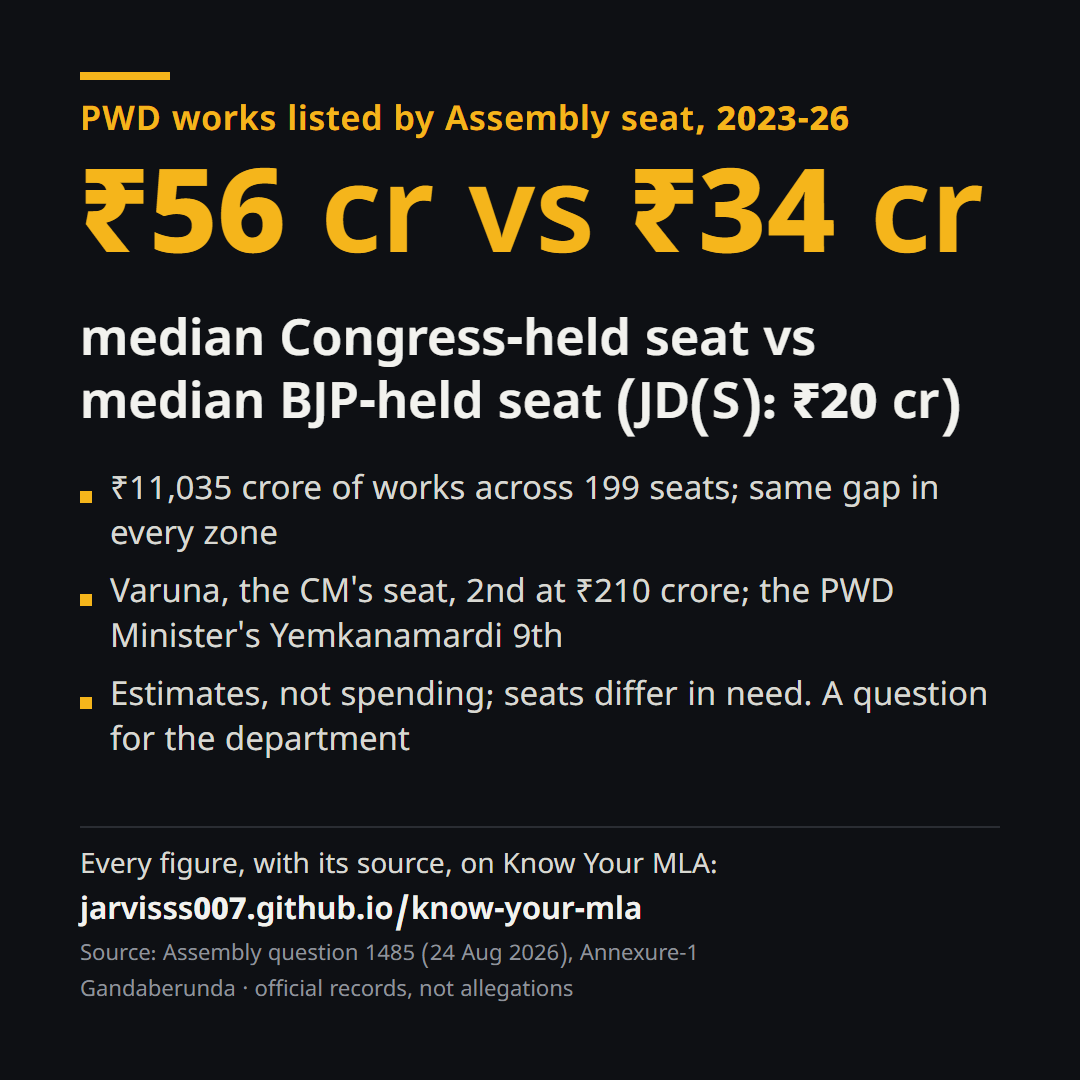
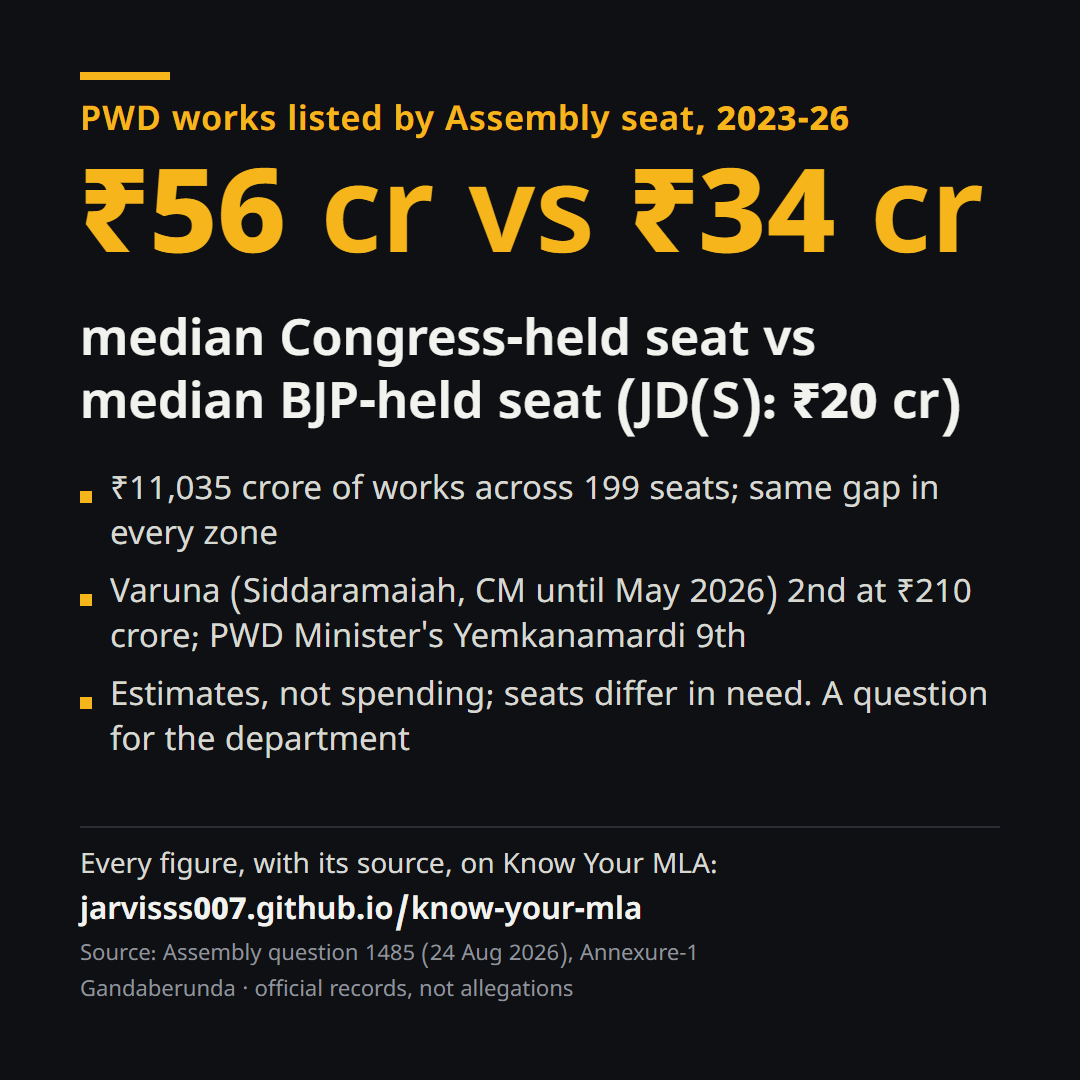
Cards: seats card CM label corrected (Varuna = Siddaramaiah, CM until May 2026); new Evidence card (EN/KN)

Changed region(s): [[0.0917, 0.5194, 0.9167, 0.6111]]

diff --git a/tools/make_money_cards.py b/tools/make_money_cards.py
@@ -32,8 +32,11 @@ CARDS = [
      {"en": ("PWD North zone, Belagavi to Vijayapura, end of July 2026", "₹555 crore", "of contractors' bills unpaid for more than a year", ["₹1,808 crore owed on 4,744 dated bills", "173 bills over three years old; the oldest from March 2018", "The lists show unpaid bills only, not who was paid first"], "Source: Assembly question 1485 (24 Aug 2026), annexure spreadsheets", "reports/follow_the_money.html#bills"),
       "kn": ("ಲೋಕೋಪಯೋಗಿ ಉತ್ತರ ವಲಯ, ಬೆಳಗಾವಿಯಿಂದ ವಿಜಯಪುರ, ಜುಲೈ 2026 ಅಂತ್ಯ", "₹555 ಕೋಟಿ", "ಗುತ್ತಿಗೆದಾರರ ಬಿಲ್ಲುಗಳು ಒಂದು ವರ್ಷಕ್ಕೂ ಹೆಚ್ಚು ಕಾಲದಿಂದ ಬಾಕಿ", ["4,744 ಬಿಲ್ಲುಗಳಲ್ಲಿ ₹1,808 ಕೋಟಿ ಬಾಕಿ", "173 ಬಿಲ್ಲುಗಳು ಮೂರು ವರ್ಷಕ್ಕಿಂತ ಹಳೆಯವು; ಅತ್ಯಂತ ಹಳೆಯದು ಮಾರ್ಚ್ 2018", "ಪಟ್ಟಿಯಲ್ಲಿ ಬಾಕಿ ಬಿಲ್ಲುಗಳು ಮಾತ್ರ; ಯಾರಿಗೆ ಮೊದಲು ಪಾವತಿ ಎಂಬುದಿಲ್ಲ"], "ಮೂಲ: ವಿಧಾನಸಭೆ ಪ್ರಶ್ನೆ 1485 (24 ಆಗಸ್ಟ್ 2026), ಅನುಬಂಧ", "reports/follow_the_money_kn.html#bills")}),
     ("seats",
-     {"en": ("PWD works listed by Assembly seat, 2023-26", "₹56 cr vs ₹34 cr", "median Congress-held seat vs median BJP-held seat (JD(S): ₹20 cr)", ["₹11,035 crore of works across 199 seats; same gap in every zone", "Varuna, the CM's seat, 2nd at ₹210 crore; the PWD Minister's Yemkanamardi 9th", "Estimates, not spending; seats differ in need. A question for the department"], "Source: Assembly question 1485 (24 Aug 2026), Annexure-1", "reports/follow_the_money.html#seats"),
-      "kn": ("ಕ್ಷೇತ್ರವಾರು ಲೋಕೋಪಯೋಗಿ ಕಾಮಗಾರಿಗಳು, 2023-26", "₹56 ಕೋಟಿ / ₹34 ಕೋಟಿ", "ಕಾಂಗ್ರೆಸ್ ಮಧ್ಯಮ ಕ್ಷೇತ್ರ / ಬಿಜೆಪಿ ಮಧ್ಯಮ ಕ್ಷೇತ್ರ (ಜೆಡಿ(ಎಸ್): ₹20 ಕೋಟಿ)", ["199 ಕ್ಷೇತ್ರಗಳಲ್ಲಿ ₹11,035 ಕೋಟಿ; ಪ್ರತಿ ವಲಯದಲ್ಲೂ ಇದೇ ಅಂತರ", "ಮುಖ್ಯಮಂತ್ರಿಗಳ ವರುಣ ₹210 ಕೋಟಿಯೊಂದಿಗೆ 2ನೇ; ಲೋಕೋಪಯೋಗಿ ಸಚಿವರ ಯಮಕನಮರಡಿ 9ನೇ", "ಅಂದಾಜು, ಖರ್ಚಲ್ಲ; ಅಗತ್ಯ ಬೇರೆ ಬೇರೆ. ಇಲಾಖೆಗೆ ಒಂದು ಪ್ರಶ್ನೆ"], "ಮೂಲ: ವಿಧಾನಸಭೆ ಪ್ರಶ್ನೆ 1485 (24 ಆಗಸ್ಟ್ 2026), ಅನುಬಂಧ-1", "reports/follow_the_money_kn.html#seats")}),
+     {"en": ("PWD works listed by Assembly seat, 2023-26", "₹56 cr vs ₹34 cr", "median Congress-held seat vs median BJP-held seat (JD(S): ₹20 cr)", ["₹11,035 crore of works across 199 seats; same gap in every zone", "Varuna (Siddaramaiah, CM until May 2026) 2nd at ₹210 crore; PWD Minister's Yemkanamardi 9th", "Estimates, not spending; seats differ in need. A question for the department"], "Source: Assembly question 1485 (24 Aug 2026), Annexure-1", "reports/follow_the_money.html#seats"),
+      "kn": ("ಕ್ಷೇತ್ರವಾರು ಲೋಕೋಪಯೋಗಿ ಕಾಮಗಾರಿಗಳು, 2023-26", "₹56 ಕೋಟಿ / ₹34 ಕೋಟಿ", "ಕಾಂಗ್ರೆಸ್ ಮಧ್ಯಮ ಕ್ಷೇತ್ರ / ಬಿಜೆಪಿ ಮಧ್ಯಮ ಕ್ಷೇತ್ರ (ಜೆಡಿ(ಎಸ್): ₹20 ಕೋಟಿ)", ["199 ಕ್ಷೇತ್ರಗಳಲ್ಲಿ ₹11,035 ಕೋಟಿ; ಪ್ರತಿ ವಲಯದಲ್ಲೂ ಇದೇ ಅಂತರ", "ಸಿದ್ದರಾಮಯ್ಯ (ಮೇ 2026ರವರೆಗೆ ಮುಖ್ಯಮಂತ್ರಿ) ಅವರ ವರುಣ ₹210 ಕೋಟಿಯೊಂದಿಗೆ 2ನೇ; ಲೋಕೋಪಯೋಗಿ ಸಚಿವರ ಯಮಕನಮರಡಿ 9ನೇ", "ಅಂದಾಜು, ಖರ್ಚಲ್ಲ; ಅಗತ್ಯ ಬೇರೆ ಬೇರೆ. ಇಲಾಖೆಗೆ ಒಂದು ಪ್ರಶ್ನೆ"], "ಮೂಲ: ವಿಧಾನಸಭೆ ಪ್ರಶ್ನೆ 1485 (24 ಆಗಸ್ಟ್ 2026), ಅನುಬಂಧ-1", "reports/follow_the_money_kn.html#seats")}),
+    ("evidence",
+     {"en": ("Karnataka's own records, Sept 2022 to Aug 2026", "1,248 → 0", "Lokayukta cases against officials; government servants held guilty in them so far: none", ["195 cases against senior officers: none ended in conviction or acquittal", "MLAs asked how many prosecutions wait for permission: no answer in 3 months", "Every figure with its document, and six things you can do"], "Source: CM's replies to the Council (20 Aug 2026) and Assembly (10 Mar 2026)", "reports/evidence.html"),
+      "kn": ("ಕರ್ನಾಟಕದ ದಾಖಲೆಗಳು, ಸೆಪ್ಟೆಂಬರ್ 2022-ಆಗಸ್ಟ್ 2026", "1,248 → 0", "ಲೋಕಾಯುಕ್ತ ಪ್ರಕರಣಗಳು; ತಪ್ಪಿತಸ್ಥರೆಂದು ಸಾಬೀತಾದ ನೌಕರರು: ಯಾರೂ ಇಲ್ಲ", ["ಹಿರಿಯ ಅಧಿಕಾರಿಗಳ ವಿರುದ್ಧ 195 ಪ್ರಕರಣಗಳು: ಒಂದೂ ಶಿಕ್ಷೆ ಅಥವಾ ಖುಲಾಸೆಯಲ್ಲಿ ಮುಗಿದಿಲ್ಲ", "ಎಷ್ಟು ಅಭಿಯೋಜನೆಗಳು ಅನುಮತಿಗೆ ಕಾಯುತ್ತಿವೆ ಎಂದು ಶಾಸಕರು ಕೇಳಿದರು: 3 ತಿಂಗಳಾದರೂ ಉತ್ತರವಿಲ್ಲ", "ಪ್ರತಿ ಅಂಕಿ ದಾಖಲೆಯೊಂದಿಗೆ, ಮತ್ತು ನೀವು ಮಾಡಬಹುದಾದ ಆರು ಕೆಲಸಗಳು"], "ಮೂಲ: ಪರಿಷತ್ (20 ಆಗಸ್ಟ್ 2026) ಮತ್ತು ವಿಧಾನಸಭೆಗೆ (10 ಮಾರ್ಚ್ 2026) ಮುಖ್ಯಮಂತ್ರಿಗಳ ಉತ್ತರಗಳು", "reports/evidence_kn.html")}),
 ]
 
 FOOT = {"kn": ("ಪ್ರತಿ ಅಂಕಿಯ ಮೂಲ, ನಿಮ್ಮ ಶಾಸಕರನ್ನು ತಿಳಿಯಿರಿ ಜಾಲತಾಣದಲ್ಲಿ:", "ಗಂಡಭೇರುಂಡ · ಆರೋಪವಲ್ಲ, ಅಧಿಕೃತ ದಾಖಲೆ"),
